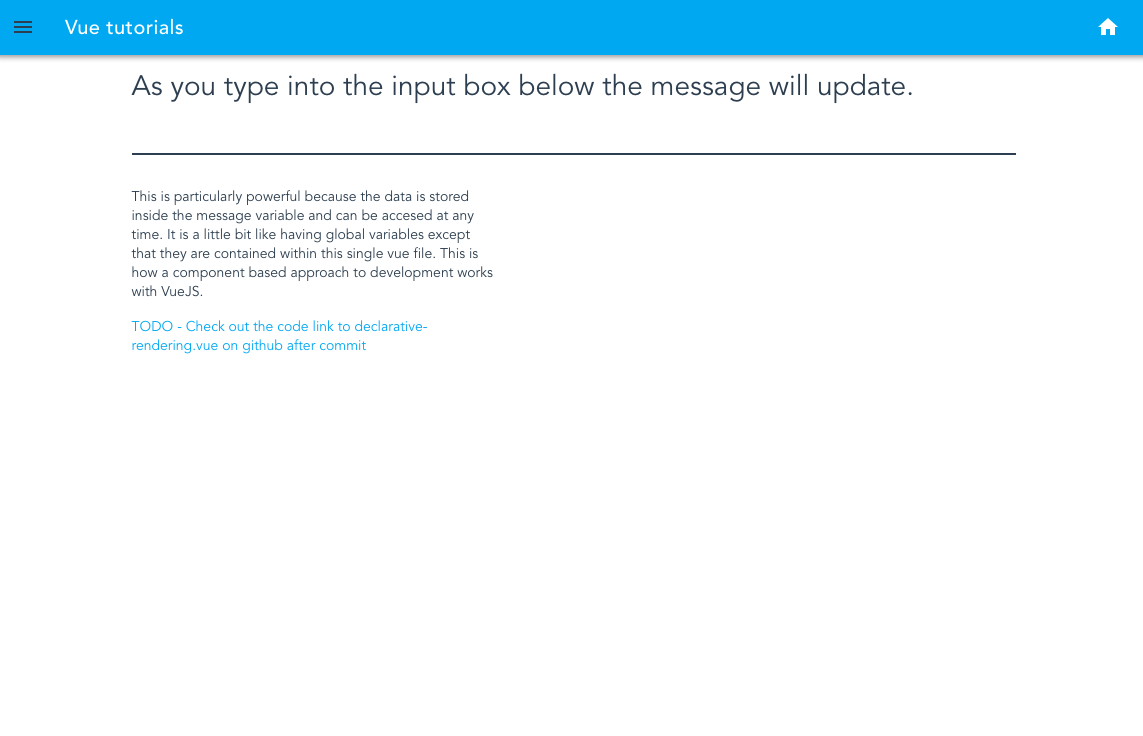
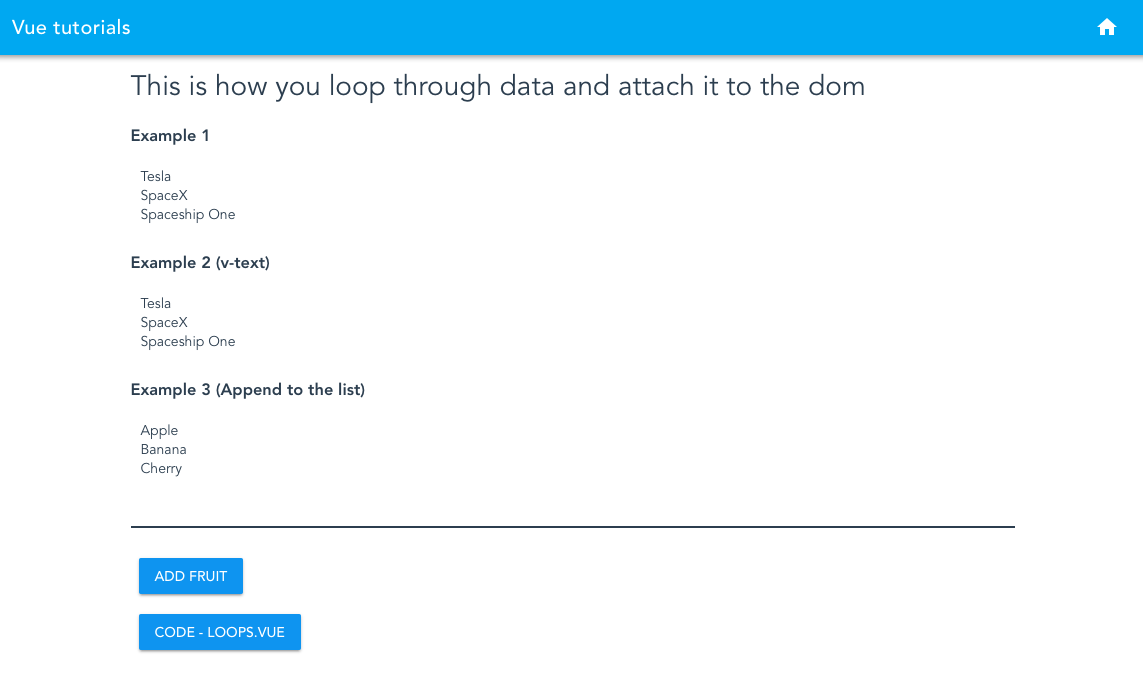
Loops
This is how you loop through an array and attach the contents to the dom.

There is also an example of how to use text input and vue-on event listener to add data to the array.

See current-look-of-app.png

diff --git a/src/pages/loops.vue b/src/pages/loops.vue
@@ -1,0 +1,71 @@
+<template>
+  <div>
+		<headermain></headermain>
+
+		<v-container grid-list-md >
+            <!-- Example 1 -->
+			<v-layout row wrap>
+				<v-flex xs12>
+					<h1> This is how you loop through data and attach it to the dom</h1>
+                    <h3>Example 1</h3>
+                    <ul>
+                        <li v-for="name in names">{{name}}</li>
+                    </ul>
+				</v-flex>
+			</v-layout>
+
+            <!-- Example 2 -->
+            <v-layout row wrap>
+				<v-flex xs12>
+                    <h3>Example 2 (v-text)</h3>
+                    <ul>
+                        <li v-for="name in names" v-text="name"></li>
+                    </ul>
+				</v-flex>
+			</v-layout>
+
+            <!-- Example 3 -->
+            <v-layout row wrap>
+				<v-flex xs12>
+                    <h3>Example 3 (Append to the list)</h3>
+                    <ul>
+                        <li v-for="food in fruit" v-text="food"></li>
+                    </ul>
+              		<v-text-field	class="input-group--focused" v-model="fruitInput"></v-text-field>
+                    <v-btn color="blue white--text" v-on:click="addFruit()">Add fruit</v-btn>
+				</v-flex>
+			</v-layout>
+
+			<v-layout row wrap>
+				<v-flex xs5  >
+					<div>
+						<a href="https://github.com/dirkteucher/vue-tutorial-site/blob/master/src/pages/loops.vue" target="_blank">
+							<v-btn color="blue white--text">CODE - loops.vue</v-btn>
+						</a>
+
+					</div>
+				</v-flex>
+			</v-layout>
+
+		</v-container>
+  </div>
+</template>
+
+<script>
+export default {
+  name: 'loops',
+  data () {
+    return {
+      names: ["Tesla", "SpaceX", "Spaceship One"],
+      fruit: ["Apple", "Banana", "Cherry"],
+      fruitInput: ""
+    }
+  },
+  methods:{
+      addFruit(){
+        this.fruit.push(this.fruitInput);
+        this.fruitInput = "";
+      }
+  }
+}
+</script>

diff --git a/src/router/router.js b/src/router/router.js
@@ -7,6 +7,7 @@ Vue.use(Router)
 // Vue pages
 import home from '../pages/home.vue'
 import declarativeRendering from '../pages/declarative-rendering.vue'
+import loops from '../pages/loops.vue'
 
 export default new Router({
   routes: [
@@ -19,6 +20,11 @@ export default new Router({
       path: '/declarative-rendering',
       name: 'declarativeRendering',
       component: declarativeRendering
+    },
+    {
+      path: '/loops',
+      name: 'loops',
+      component: loops
     }
   ]
 })

diff --git a/src/pages/home.vue b/src/pages/home.vue
@@ -24,6 +24,16 @@
         </v-flex>
         
 
+        <v-flex xs6 sm3>
+          <router-link to="/loops">
+            <v-card color="blue-grey darken-2" class="white--text">
+              <v-card-title primary-title>
+                <div class="headline">Loops</div>
+              </v-card-title>
+            </v-card>
+          </router-link>
+        </v-flex>
+
       </v-layout>
 
     

diff --git a/src/App.vue b/src/App.vue
@@ -27,13 +27,16 @@ h1, h2 {
 	font-weight: normal;
 }
 
+h3 {
+	margin: 20px 0;;
+}
+
 ul {
 	list-style-type: none;
 	padding: 0;
 }
 
 li {
-	display: inline-block;
 	margin: 0 10px;
 }
 
